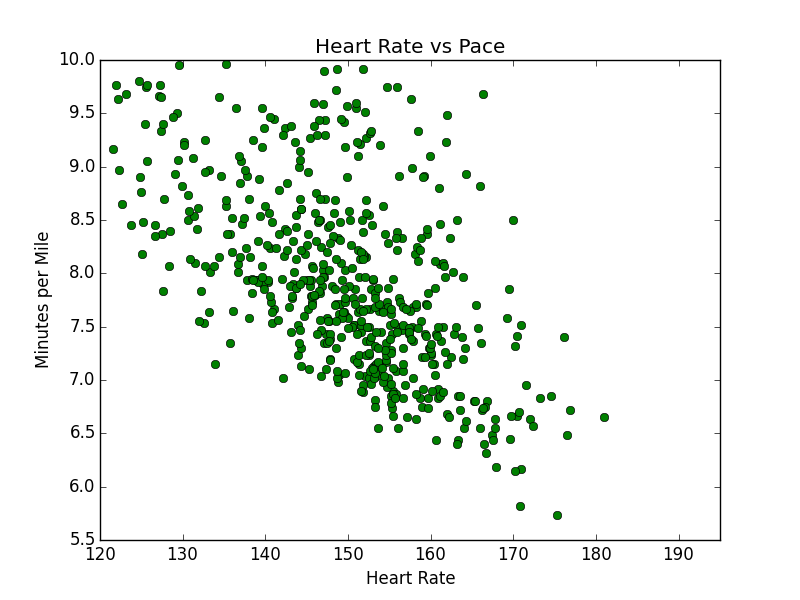
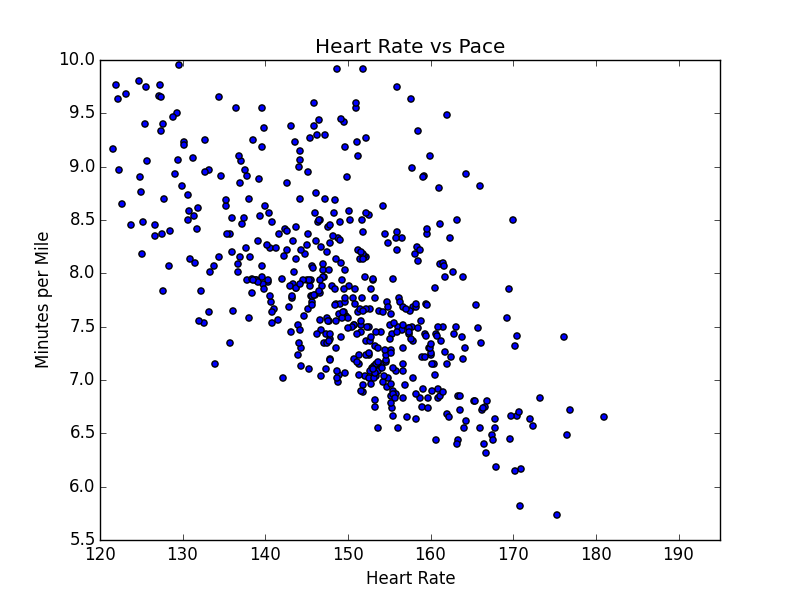
updates
added DataFrame for hr, pace and elev
only plotted points with net elevation under 50ft

diff --git a/agg_splits.py b/agg_splits.py
@@ -1,4 +1,6 @@
 import paces as pc
+import pandas as pd
+import numpy as np
 import matplotlib.pyplot as plt
 
 data_set = pc.runs #data set is the list of runs
@@ -23,17 +25,31 @@ def data_combinator(runs, interval):
 		
 data = data_combinator(runs_list(["2014"], pc.runs), 1.0)
 
-#convert HR and pace to individual lists
-hr = [data[i][1] for i in range(0,len(data))]	
-pace = [data[i][0] / 60. for i in range(0, len(data))]
+#convert HR, pace and elevation into dataframe
+hr = pd.Series(data=[data[i][1] for i in range(0,len(data))])
+pace = pd.Series(data=[data[i][0] / 60. for i in range(0, len(data))])
+elev = pd.Series(data=[data[i][2] for i in range(0,len(data))])
+hr.name = 'hr'
+pace.name= 'pace'
+elev.name = 'net elevation'
+
+df = pd.DataFrame(zip(hr,pace, elev), columns=[hr.name, pace.name, elev.name])
+norm_elev = df[df['net elevation'] < 50]
+
+
 
 #create scatter plot of the data
-plt.plot(hr, pace, 'go')
+plt.scatter(norm_elev["hr"], norm_elev["pace"])
 plt.xlabel('Heart Rate')
 plt.ylabel('Minutes per Mile')
 plt.title('Heart Rate vs Pace')
 plt.axis([120, 195, 5.5, 10])
 plt.show()
+
+
+
+
+#plt.show()
 
 
  		

diff --git a/paces.py b/paces.py
@@ -74,6 +74,7 @@ def avgHR(run, start_point, end_point):
 	avg_HR = np.mean(HR)
 	return avg_HR
 	
+	
 def run_info(run, interval):
 	"""combine all the required info at the given interval for the whole run file"""
 	splits = []
@@ -83,7 +84,9 @@ def run_info(run, interval):
 	for pt in range(0, len(run)-1):
 		distance += point_distance(run[pt][0], run[pt+1][0])
 		if distance > next_int:
-			splits.append([time_split(run[start][2], run[pt][2]), round(avgHR(run, start, pt),2)])
+			splits.append([time_split(run[start][2], run[pt][2]), 
+						round(avgHR(run, start, pt),2),
+						 round(float(run[pt][3])-float(run[start][3]))])
 			start = pt + 1
 			next_int = distance + interval		
 	return splits
